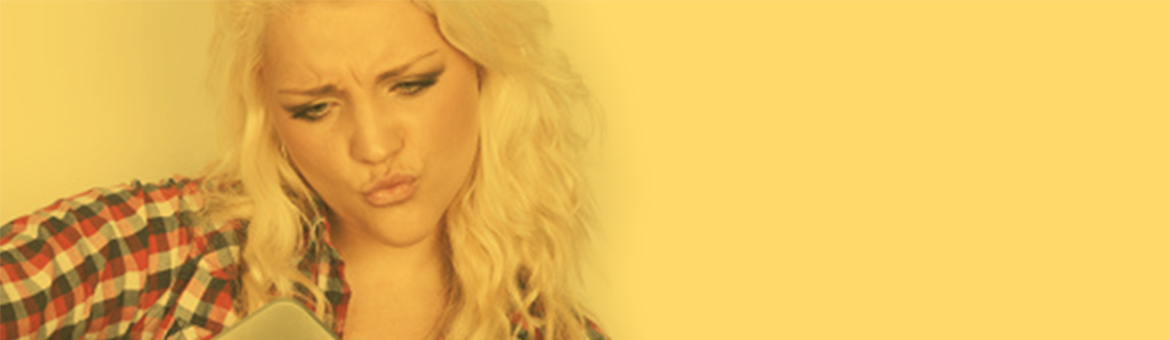
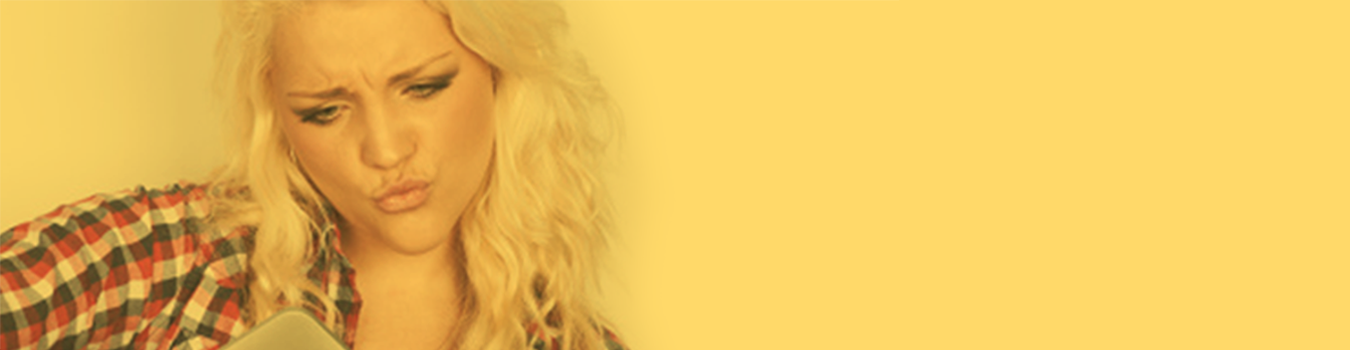
updates to the slider

Changed region(s): [[0.0, 0.0, 0.5231, 1.0]]

diff --git a/public/stylesheets/html-content-slider-flexslider.css b/public/stylesheets/html-content-slider-flexslider.css
@@ -16,6 +16,9 @@
     clear: both;
     overflow:hidden;
     z-index:2;
+    -moz-box-shadow: 0px 0px 10px 3px #777;
+    -webkit-box-shadow: 0px 0px 10px 3px #777;
+    box-shadow: 0px 0px 10px 3px #777;
 }
 .content-slider.flexslider .slides { zoom: 1 }
 .content-slider-wrapper {
@@ -35,8 +38,8 @@
 .content-slider.flexslider .caption {
     position: absolute;
     top: 5%;
-    left: 720px;
-    width: 35%;
+    left: 640px;
+    width: 45%;
     padding: 15px;
 }
 
@@ -64,12 +67,38 @@
     display: block;
     clear: both;
 }
-.content-slider.flexslider .caption h2 {
-    font-size: 200%;
-    line-height: 1.2;
+.content-slider.flexslider .caption h1 {
+    font-size: 260%;
+    line-height: .95em;
     margin-bottom: 3%;
-    color:#8dc4d2
+    color:#455560;
+    -moz-opacity: 0.45;
+    opacity: 0.45;
+    -ms-filter:"progid:DXImageTransform.Microsoft.Alpha"(Opacity=45);
+    font-weight: 600;
 }
+.content-slider.flexslider .caption h1.big.blue {
+    font-size: 375%;
+    line-height: .95em;
+    margin-bottom: 3%;
+    color:#57ACE0;
+    font-weight: 600;
+    -moz-opacity: 1;
+    opacity: 1;
+    -ms-filter:"progid:DXImageTransform.Microsoft.Alpha"(Opacity=1);
+}
+.content-slider.flexslider .caption span.big.grey {
+    color: #455560;
+    font-size: 800%;
+    float: left;
+    line-height: .25;
+    font-family: "Bariol_Bold";
+    margin-right: 11px;
+    -moz-opacity: 0.45;
+    opacity: 0.45;
+    -ms-filter:"progid:DXImageTransform.Microsoft.Alpha"(Opacity=45);
+}
+
 .content-slider .more {
     padding-top: 10px;
     text-align: right;
@@ -116,6 +145,12 @@
     top: 0;
     text-align: center;
     padding:10px 0 10px 0;
+    background-image: linear-gradient(bottom, #5C6870 32%, #74838E 77%);
+    background-image: -o-linear-gradient(bottom, #5C6870 32%, #74838E 77%);
+    background-image: -moz-linear-gradient(bottom, #5C6870 32%, #74838E 77%);
+    background-image: -webkit-linear-gradient(bottom, #5C6870 32%, #74838E 77%);
+    background-image: -ms-linear-gradient(bottom, #5C6870 32%, #74838E 77%);
+    
 }
 .content-slider.flexslider .flex-control-nav li {
     margin: 0 0 0 5px;
@@ -171,8 +206,13 @@
     background-position: -180px 50%;
 }
 
-/* device width 600 px to 800 px
+/* Media Queries
 ================================================== */
+@media only screen and (max-width:320px) { 
+    /* height of slider on mobile */
+    .content-slider.flexslider img { height: 125px }
+}
+
 @media only screen and (min-width: 600px) and (max-width:800px) { 
     .content-slider.flexslider .caption h2 {
         font-size: 180%;
@@ -183,7 +223,79 @@
         line-height: 1.5;
         text-align: left;
     }
-} /* end */
+}
+
+@media only screen and (min-width: 767px) and (max-width: 979px) { 
+    /* height of slider on tablet */
+    .content-slider.flexslider img { height: 250px }
+}
+
+@media only screen and (min-width: 980px) { 
+    .content-slider.flexslider img { height: 300px }
+    .content-slider.flexslider .caption {
+        position: absolute;
+        top: 8%;
+        left: 635px;
+        width: 45%;
+        padding: 15px;
+    }
+    .content-slider.flexslider .caption h1 {
+        font-size: 275%;
+        line-height: .9em;
+        letter-spacing: -1px;
+        margin-bottom: 3%;
+        color:#455560;
+        -moz-opacity: 0.55;
+        opacity: 0.55;
+        -ms-filter:"progid:DXImageTransform.Microsoft.Alpha"(Opacity=55);
+        font-weight: 600;
+        font-family: "alternate-gothic-no-3-d",sans-serif;
+    }
+    .content-slider.flexslider .caption h1.big {
+        font-size: 330%;
+        line-height: 1em;
+        margin-bottom: 3%;
+        font-weight: 600;
+        -moz-opacity: 1;
+        opacity: 1;
+        -ms-filter:"progid:DXImageTransform.Microsoft.Alpha"(Opacity=1);
+    }
+     .content-slider.flexslider .caption h1.big.blue {
+       color: #57ACE0;
+     }
+     .content-slider.flexslider .caption h1.big.white {
+       color: #FFFFFF;
+     }
+     .content-slider.flexslider .caption h1.big.yellow {
+       color: #FFD24F;
+     }
+    .content-slider.flexslider .caption span.big.grey {
+        color: #455560;
+        font-size: 730%;
+        float: left;
+        line-height: .57;
+        font-family: "Bariol_Bold";
+        margin-right: 11px;
+        -moz-opacity: 0.45;
+        opacity: 0.45;
+        -ms-filter:"progid:DXImageTransform.Microsoft.Alpha"(Opacity=45);
+        font-family: "alternate-gothic-no-3-d",sans-serif;
+    }
+}
+@media only screen and (min-width: 1024px) { 
+    .content-slider.flexslider img { height: 350px }
+}
+
+@media only screen and (min-width: 1280px) and (max-width: 1366px) { 
+    .content-slider.flexslider img { height: 350px }
+    
+    
+}
+
+@media only screen and (min-width: 1680px) { 
+    .content-slider.flexslider img { height: 450px }
+}
+
 
 /* up to 767px wide
 ================================================== */
@@ -213,6 +325,7 @@
 		width:auto;
 		max-width: 100%;
 		margin:0 auto;
+		height: 200px;
 	}
     .content-slider.flexslider .caption h2 {
         text-align: center;

diff --git a/public/stylesheets/style.css b/public/stylesheets/style.css
@@ -384,7 +384,66 @@ a.btn-inverse {
   font-weight: bold;
 }
 
+.btn-orange {
+  background-color: #C6630A !important;
+  background-repeat: repeat-x;
+  filter: progid:DXImageTransform.Microsoft.gradient(startColorstr="#ffad32", endColorstr="#cc7a00");
+  background-image: -khtml-gradient(linear, left top, left bottom, from(#E89425), to(#C6630A));
+  background-image: -moz-linear-gradient(top, #E89425, ##C6630A);
+  background-image: -ms-linear-gradient(top, #E89425, ##C6630A);
+  background-image: -webkit-gradient(linear, left top, left bottom, color-stop(0%, #E89425), color-stop(100%, #C6630A));
+  background-image: -webkit-linear-gradient(top, #E89425, #C6630A);
+  background-image: -o-linear-gradient(top, #E89425, #C6630A);
+  background-image: linear-gradient(#E89425, #C6630A);
+  border-color: #CC7A00 #CC7A00 #B36B00;
+  color: #fff !important;
+  text-shadow: 0 1px 1px rgba(255, 255, 255, 0.49);
+  -webkit-font-smoothing: antialiased;
+  padding: 7px 15px;
+  font-size: 17.5px;
+  -webkit-border-radius: 35px;
+  -moz-border-radius: 35px;
+  border-radius: 35px;
+  font-family: helvetica, sans-serif;
+  font-weight: 600;
+  -webkit-font-smoothing: antialiased;
+  -moz-box-shadow: 10px 13px 25px -8px #222;
+  -webkit-box-shadow: 10px 13px 25px -8px #222;
+  box-shadow: 10px 13px 25px -8px #222;  
+}
 
+.btn-blue {
+  background-color: hsl(210, 64%, 24%) !important;
+  background-repeat: repeat-x;
+  filter: progid:DXImageTransform.Microsoft.gradient(startColorstr="#4f93d8", endColorstr="#163d64");
+  background-image: -khtml-gradient(linear, left top, left bottom, from(#4f93d8), to(#163d64));
+  background-image: -moz-linear-gradient(top, #4f93d8, #163d64);
+  background-image: -ms-linear-gradient(top, #4f93d8, #163d64);
+  background-image: -webkit-gradient(linear, left top, left bottom, color-stop(0%, #4f93d8), color-stop(100%, #163d64));
+  background-image: -webkit-linear-gradient(top, #4f93d8, #163d64);
+  background-image: -o-linear-gradient(top, #4f93d8, #163d64);
+  background-image: linear-gradient(#4f93d8, #163d64);
+  border-color: #163d64 #163d64 hsl(210, 64%, 15.5%);
+  color: #fff !important;
+  text-shadow: 0 -1px 0 rgba(0, 0, 0, 0.56);
+  -webkit-font-smoothing: antialiased;
+  padding: 7px 15px;
+  font-size: 17.5px;
+  -webkit-border-radius: 35px;
+  -moz-border-radius: 35px;
+  border-radius: 35px;
+  font-family: helvetica, sans-serif;
+  font-weight: 600;
+  -webkit-font-smoothing: antialiased;
+  -moz-box-shadow: 10px 13px 25px -8px #222;
+  -webkit-box-shadow: 10px 13px 25px -8px #222;
+  box-shadow: 10px 13px 25px -8px #222;  
+}
+
+.btn:hover, .btn:active, .btn.active, .btn.disabled, .btn[disabled] {
+  border-color: transparent;
+  color: #999;
+}
 /*	accessibility
 ================================================== */
 .visuallyhidden,.search form label { border: 0; clip: rect(0000); height: 1px; overflow: hidden; position: absolute; width: 1px; margin: -1px; padding: 0; }
@@ -655,11 +714,18 @@ input[type="text"], input[type="password"], input[type="search"], input[type="em
     position: relative;
     //clear: both;
     margin: -1% 0 0 0;
-    padding: 0 0 0 0;  //Percentages might be needed here when we go responsive 
+    padding: 0 0 0 0;  
     background: transparent;
 /*    text-shadow: 0 1px 1px rgba(255, 255, 255, 0.7);*/	  
     background-color: #74838E;
 	  border-radius: 0px;
+	  
+    background-image: linear-gradient(bottom, #5C6870 32%, #74838E 77%);
+    background-image: -o-linear-gradient(bottom, #5C6870 32%, #74838E 77%);
+    background-image: -moz-linear-gradient(bottom, #5C6870 32%, #74838E 77%);
+    background-image: -webkit-linear-gradient(bottom, #5C6870 32%, #74838E 77%);
+    background-image: -ms-linear-gradient(bottom, #5C6870 32%, #74838E 77%);  
+	  
 }
 .hero-unit h1,
 .hero-unit h2 {
@@ -1062,6 +1128,11 @@ a.thumbnail:hover {
 #footer {
     clear: both;
     background: #64747E;
+    background-image: linear-gradient(bottom, #5C6870 32%, #64747E 77%);
+    background-image: -o-linear-gradient(bottom, #5C6870 32%, #64747E 77%);
+    background-image: -moz-linear-gradient(bottom, #5C6870 32%, #64747E 77%);
+    background-image: -webkit-linear-gradient(bottom, #5C6870 32%, #64747E 77%);
+    background-image: -ms-linear-gradient(bottom, #5C6870 32%, #64747E 77%);
     padding: 2% 0 0 0;
 }
 #footer a {
@@ -1243,6 +1314,7 @@ font-size:70%!important;
     text-align: right;
     position:relative; /*ie fix*/
     background: #576674;
+    box-shadow:-18px -22px 20px -22px #222;
 }
 #footer .footerCredits ul {
     list-style: none;

diff --git a/public/stylesheets/header-1.css b/public/stylesheets/header-1.css
@@ -257,6 +257,7 @@ h6.sign-in {
   width: 100%;
   height: 15px;
   top: -1px;
+  box-shadow: 0px 0px 15px #434547;
 }
 
 .twitter-strip {
@@ -267,6 +268,7 @@ h6.sign-in {
   background: #A0CE67;
   z-index: 200 /*ie 7*/;
   width: 100%;
+  box-shadow: 0px 5px 15px -2px #434547;
 }
 
 /* tall logo resets (desktop)
